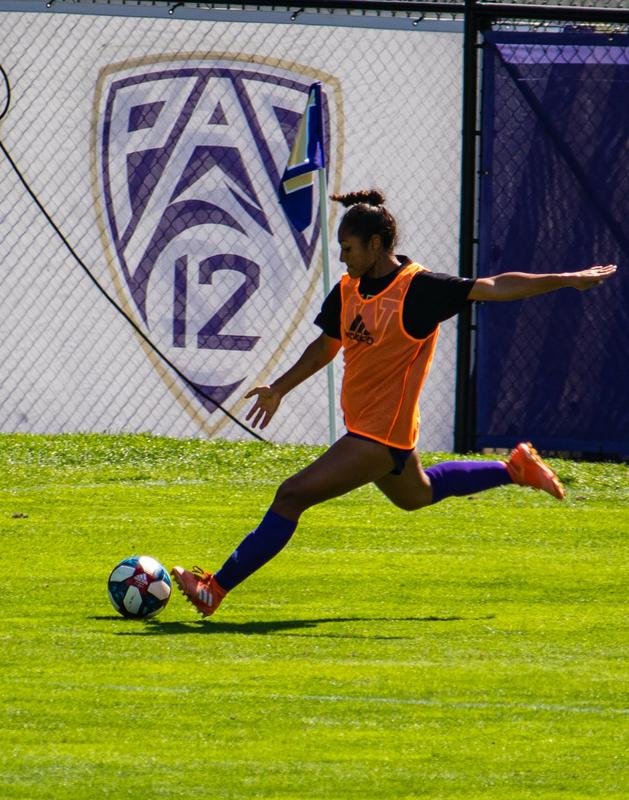
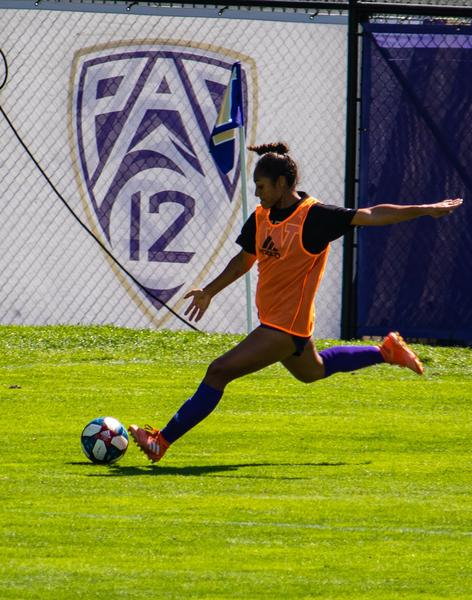
Make min thumbnail size a little smaller (faster)

Changed region(s): [[0.5339, 0.33, 0.5636, 0.36]]

diff --git a/source/photos/precompile/1.generate_thumbnails.py b/source/photos/precompile/1.generate_thumbnails.py
@@ -5,7 +5,7 @@ import os
 from PIL import Image
 
 THUMBNAIL_COMPRESSION_RATIO = 0.25
-MIN_DIMENSION_PIXELS = 800
+MIN_DIMENSION_PIXELS = 600
 MAX_DIMENSION_PIXELS = 2000
 INCLUDED_FILE_EXTENSIONS = ['.jpg', '.jpeg', '.png']
 THUMBNAIL_OUTPUT_PREXIF = 'thumb.'
